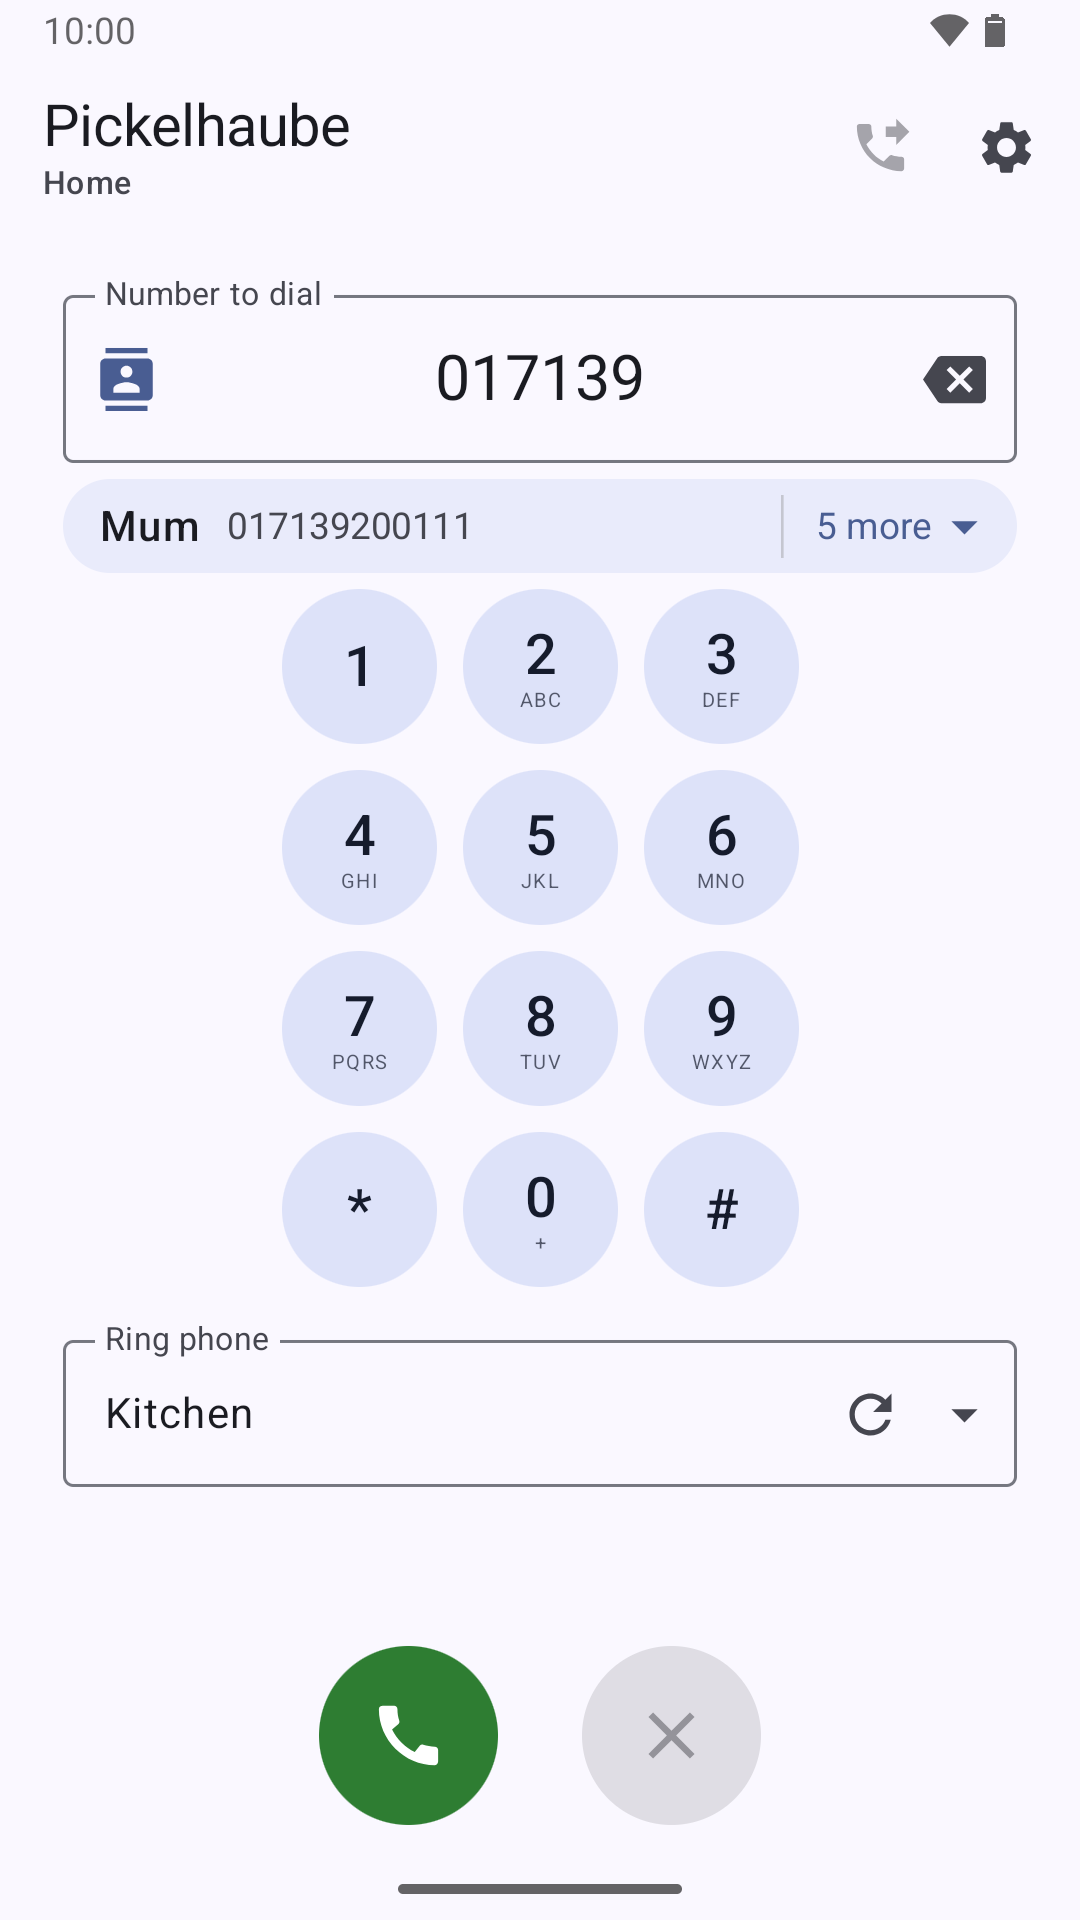
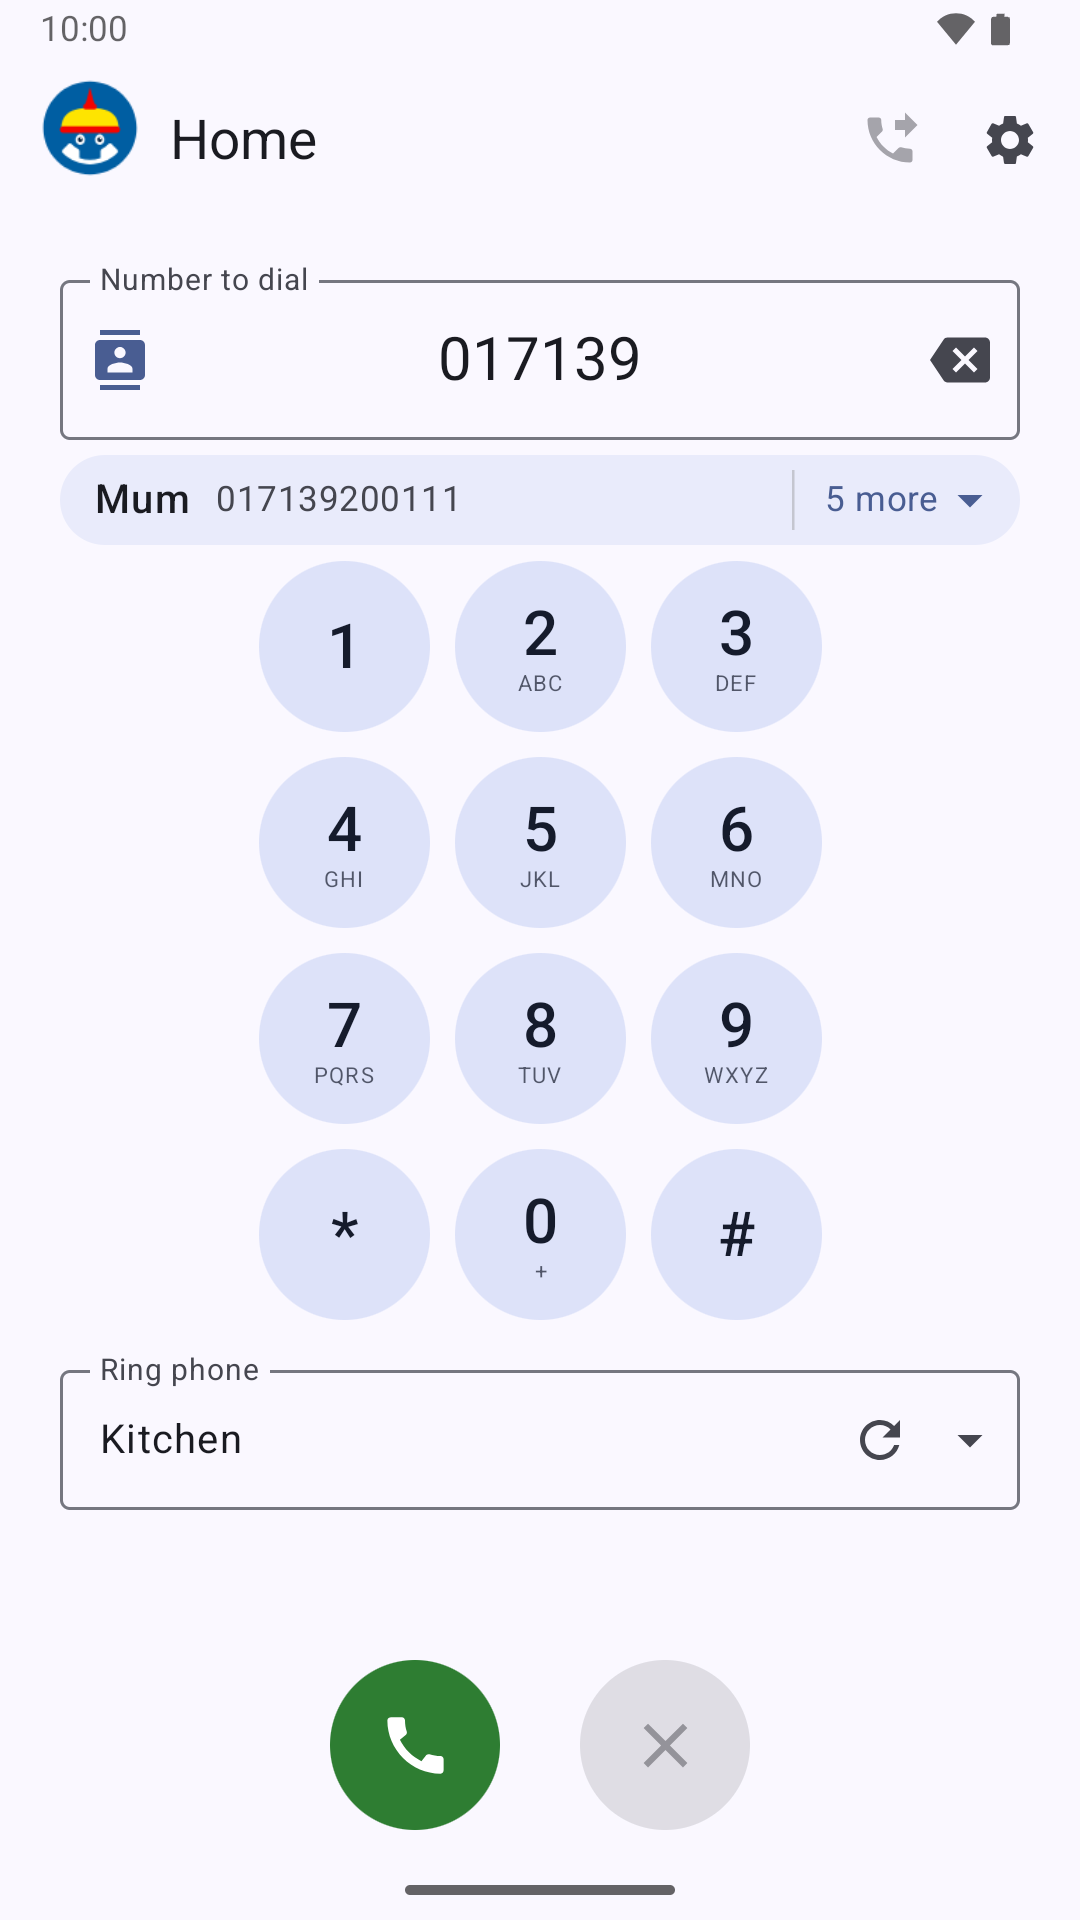
version 1.7.0 (version code 11): its "What's new" note in all seven languages (pull to refresh, the helmet, key tones, phone books changed on the box), store release notes in English and German, the store descriptions with key tones and pull to refresh (the German one shortened to stay under 4000 ch

diff --git a/docs/web/guide.html b/docs/web/guide.html
@@ -92,7 +92,8 @@
   </ol>
   <p><strong>Pull the dialer down</strong> to read everything from your FRITZ!Box again – after changing something there,
     or switching networks.</p>
-  <p>The red button cancels a call that is still being set up. Once the call is connected, end it on the handset:
+  <p>While a call is under way, the green button is off for its number – dialling it again would only ring your phone again.
+    The red button cancels a call that is still being set up. Once the call is connected, end it on the handset:
     the box cannot hang up a connected call for you.</p>
   <p>A <strong>long press on the green button</strong> offers more:</p>
   <ul>
@@ -160,7 +161,8 @@
   <h2 id="boxes">7. Several FRITZ!Boxes</h2>
   <p><em>Settings › FRITZ!Box connections</em> holds any number of boxes – home, office, parents – each with its own
     address, user, password and options. The box of the current network is chosen automatically: at start, when
-    the network changes, and when the app comes back to the foreground. A box reachable only through a VPN or MyFRITZ
+    the network changes, and when the app comes back to the foreground – or right away when you pull the dialer down.
+    The dialer's title shows the box in use, beside the helmet. A box reachable only through a VPN or MyFRITZ
     is used when the local network has none of yours.</p>
   <p>To make sure it really is your box, Pickelhaube checks the box's device id and serial number, and refuses a
     box whose number differs from the stored one. Each connection page also shows the model, FRITZ!OS version and the

diff --git a/docs/web/index.html b/docs/web/index.html
@@ -63,6 +63,8 @@
     <div class="card"><h3>Internal calls</h3><p>Call one of the box's phones from another – the kitchen from the study.</p></div>
     <div class="card"><h3>Home screen widget</h3><p>The numbers you call most, one tap away – each widget with its own list.</p></div>
     <div class="card"><h3>Welcome tour</h3><p>On first start, a friendly guide leads step by step to the connection with your box.</p></div>
+    <div class="card"><h3>Pull to refresh</h3><p>Changed something on the box? Pull the dialer down, and everything is read from it again.</p></div>
+    <div class="card"><h3>A helmet with character</h3><p>The Pickelhaube rings along while your phone rings, nods when the call is connected and waves goodbye – and key tones, if you like.</p></div>
   </div>
   <p><a href="guide.html">Read the full guide →</a></p>
 

diff --git a/app/src/main/java/org/rustygnome/pickelhaube/data/WhatsNew.kt b/app/src/main/java/org/rustygnome/pickelhaube/data/WhatsNew.kt
@@ -17,6 +17,7 @@ object WhatsNew {
     /** The notes by version code. */
     val NOTES: Map<Int, Note> = mapOf(
         8 to Note("1.6.0", R.array.whats_new_8),
+        11 to Note("1.7.0", R.array.whats_new_11),
     )
 
     /** At most this many points at once, when several versions were skipped. */

diff --git a/README.md b/README.md
@@ -112,7 +112,8 @@ on the device and not exported.
    set to silent or vibrate. A key gives way a little under the finger and springs back, with a tiny tap
    of vibration – as far as the system's touch feedback is on, and without the movement when the system's
    animations are switched off.
-   The red button cancels a dial-help call that is still being set up.
+   The red button cancels a dial-help call that is still being set up. While a call is under way, the green
+   button is off for its number – dialling it again would only ring the phone again; another number can be dialled.
    A **long press on the green button** offers *Hide my number*: your own number is withheld
    for that call (the box' code `*31#` before the number; not for internal numbers and service codes).
    With several internet numbers on the box, it also offers *From <number>* for each (see
@@ -162,7 +163,7 @@ a box (reachable, its users, its HTTPS port, …) is in the accent colour, value
 colour. **Add FRITZ!Box** adds one; tap an entry to edit (or delete) it. Each entry says whether the
 box is *reachable* (it answered the last detection: in this network, or at its configured host),
 *not reachable* or *not recognised yet* (its device id is not known yet, see below). The box in use is
-chosen automatically and marked with a check mark, and shown under the app name on the dialer. The mark
+chosen automatically and marked with a check mark, and shown as the dialer's title, beside the helmet. The mark
 turns into a red warning triangle when that box was not found by the last detection, or when the last
 request to it failed; a network change clears the latter until the next request. Only when none of the
 boxes is reachable (e.g. on mobile data without VPN) does an empty circle appear in front of the boxes,
